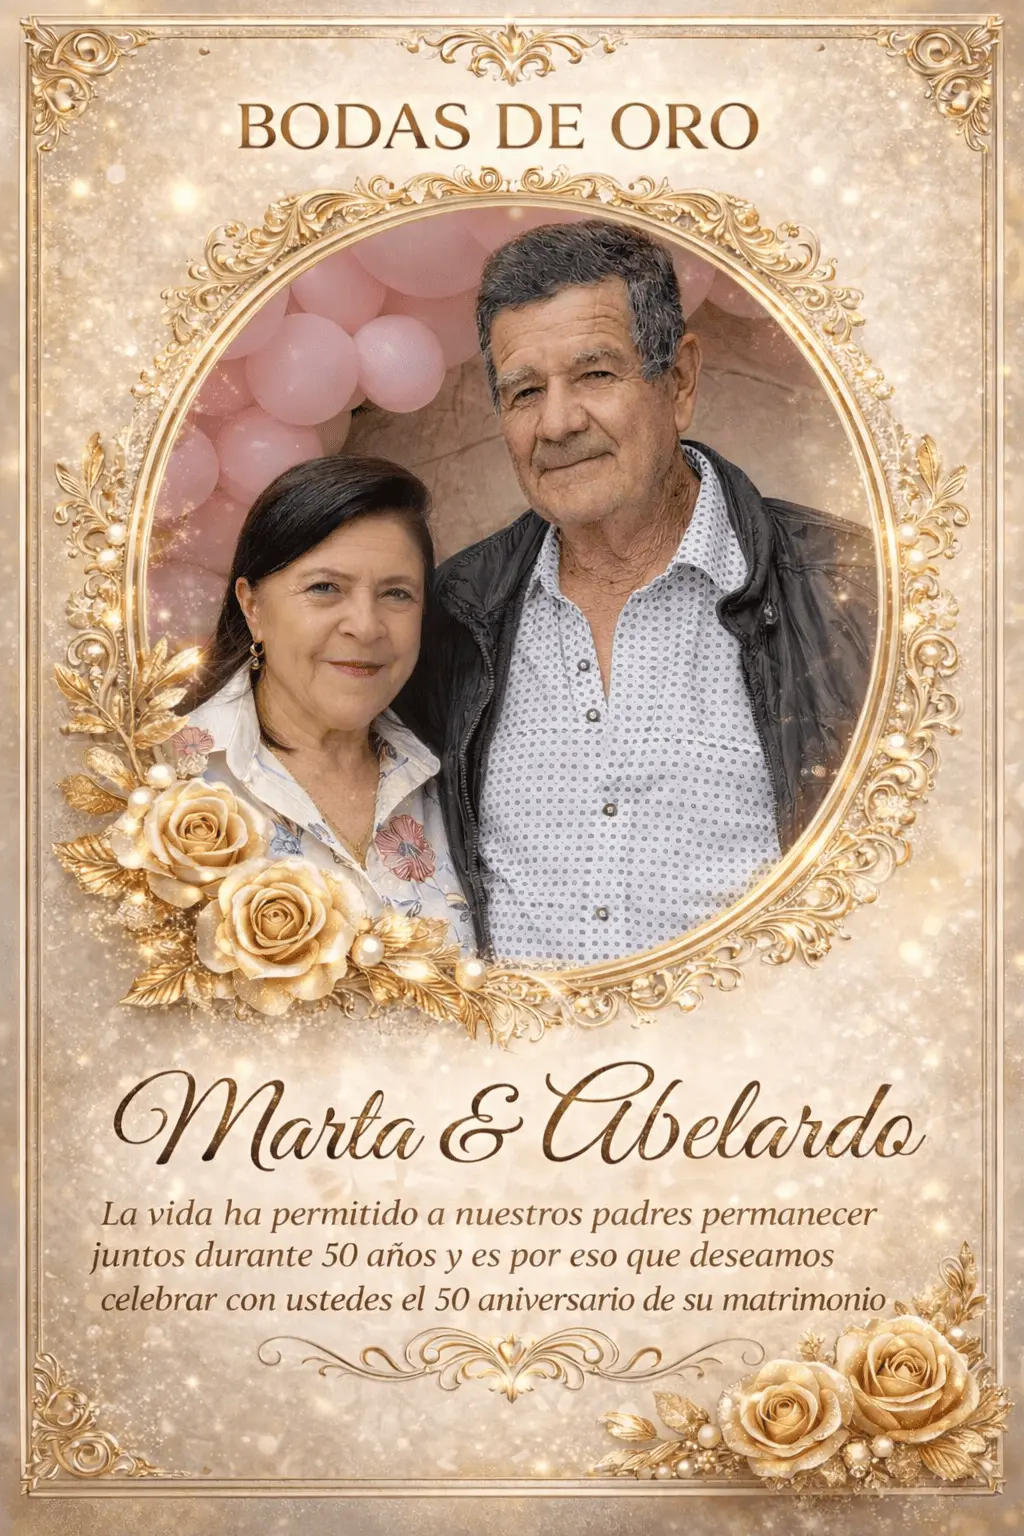
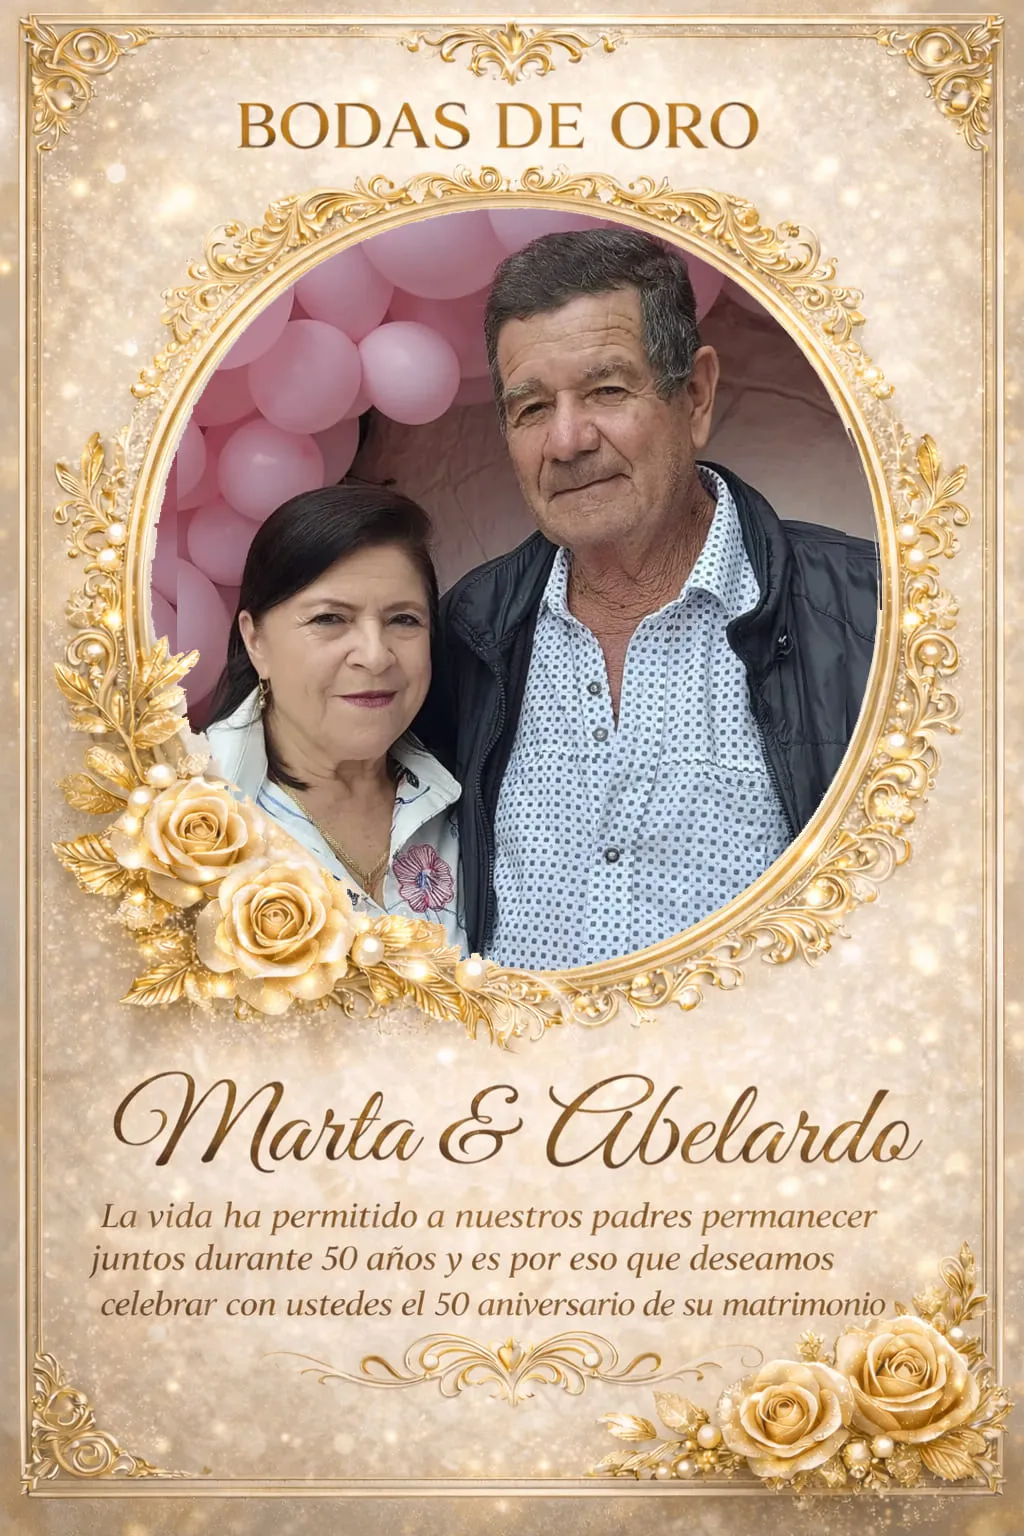
Update main photo and change ceremony title to Eucaristía

diff --git a/tarjeta.html b/tarjeta.html
@@ -638,7 +638,7 @@
             <p>Agradecemos a Dios por el ejemplo de amor y unión de nuestros padres.</p>
 
             <div class="highlight-box">
-                <h3>Parroquia Santa Marta</h3>
+                <h3>Eucaristía</h3>
                 <p class="highlight-text">23 de Marzo • 12:00 m.</p>
                 <div style="width: 40px; height: 1px; background: #C5A059; margin: 15px auto;"></div>
                 <p>La recepción se llevará a cabo a continuación<br>de la ceremonia en el mismo lugar.</p>
